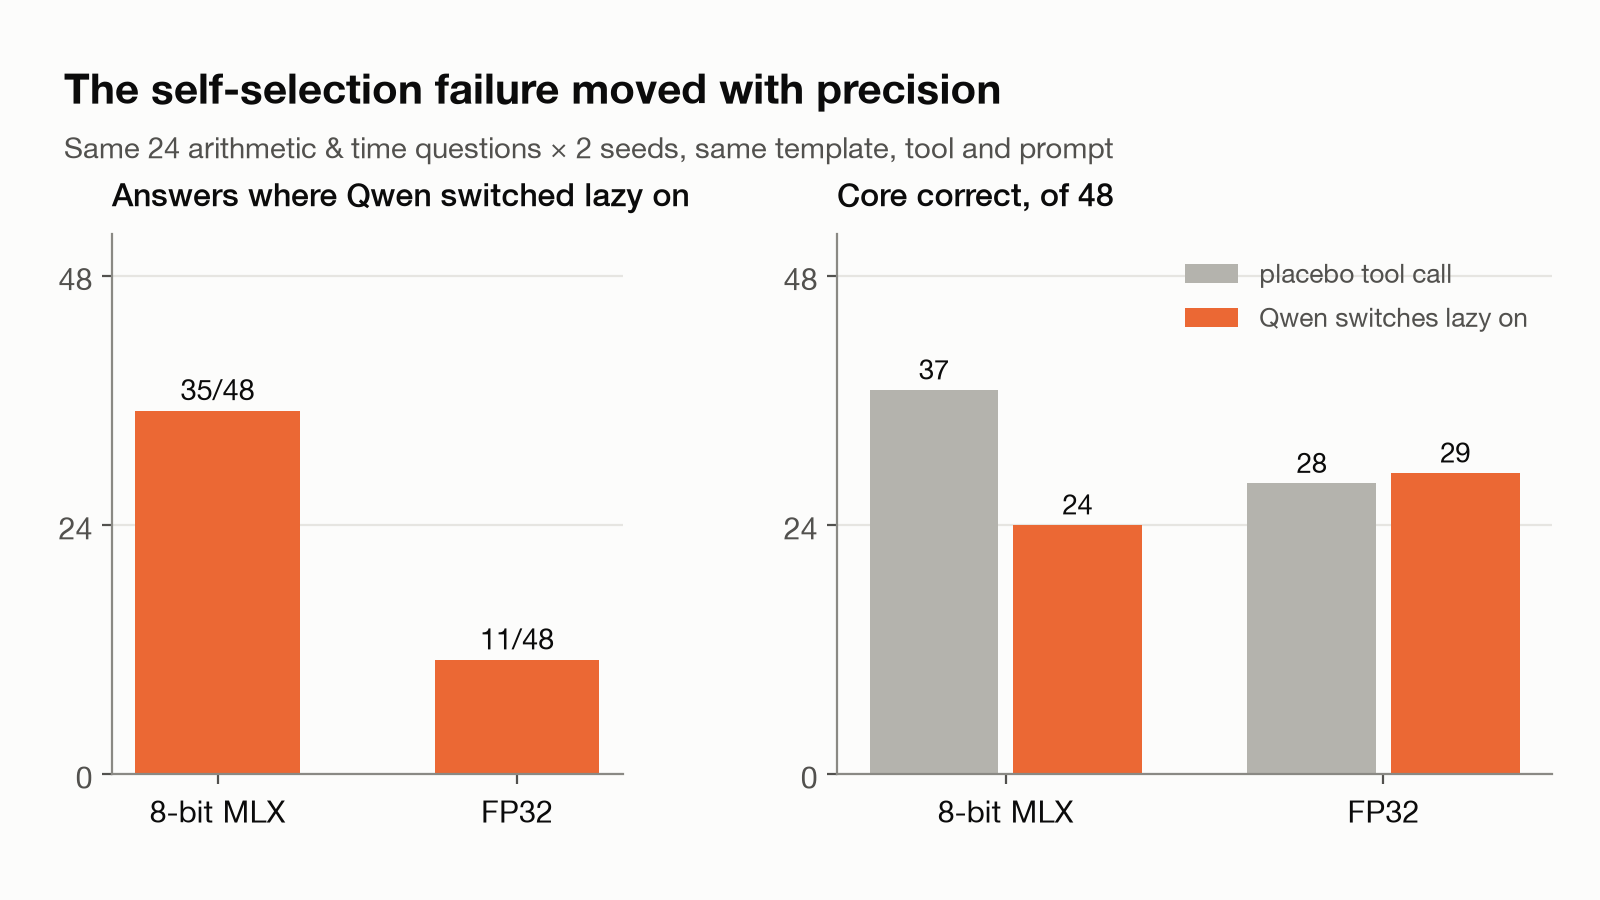
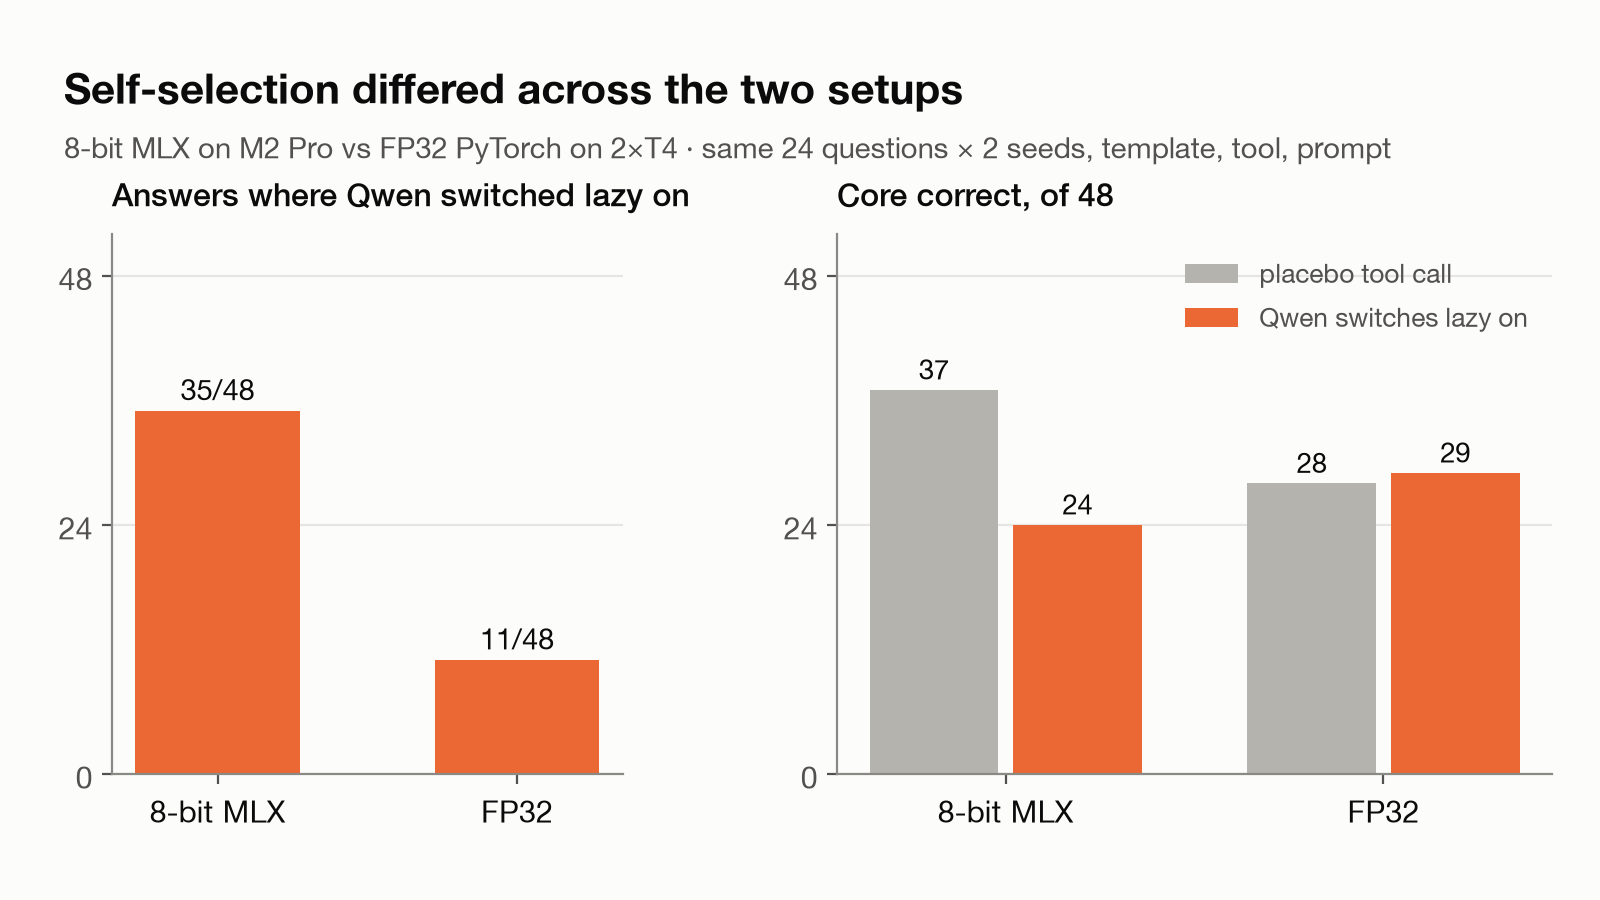
Thread v2: corrected posts 2, 4, 8, 11 and figure wording

Changed region(s): [[0.0312, 0.0622, 0.625, 0.1244], [0.0312, 0.1556, 0.875, 0.1867]]

diff --git a/paper/x_figures.py b/paper/x_figures.py
@@ -145,8 +145,8 @@ def fig_precision():
     e4 = [json.loads(l) for l in rows]
     e4 = [r for r in e4 if r.get('category') == 'arithmetic_time' and r['condition'] == 'self']
     q8_calls = sum(any((t.get('call') or {}).get('name') == 'set_mode' and str(((t.get('call') or {}).get('arguments') or {}).get('name', '')).lower() == 'lazy' for t in r.get('tool_calls', [])) for r in e4)
-    fig, gs = frame('The self-selection failure moved with precision',
-                    'Same 24 arithmetic & time questions × 2 seeds, same template, tool and prompt',
+    fig, gs = frame('Self-selection differed across the two setups',
+                    '8-bit MLX on M2 Pro vs FP32 PyTorch on 2×T4 · same 24 questions × 2 seeds, template, tool, prompt',
                     ncols=2, widths=[1, 1.4], wspace=0.35)
     a1, a2 = fig.add_subplot(gs[0]), fig.add_subplot(gs[1])
     a1.bar([0, 1], [q8_calls, fp_calls], width=0.55, color=ORANGE)
@@ -222,11 +222,11 @@ def fig_eli5_read():
     a2.axhline(0, color=INK2, lw=0.9)
     a2.plot(L, [100 * v for v in f], '-o', color=BLUE, lw=2, ms=6, mec=SURFACE, mew=1.5)
     a2.text(31, 19 + 6, '19%', ha='center', fontsize=9.5, color=INK)
-    a2.text(5, -26, 'MLPs work against it', fontsize=9, color=RED)
+    a2.text(5, -26, 'direct writes oppose it', fontsize=9, color=RED)
     a2.set_ylim(-30, 100); a2.set_yticks([0, 50, 100], ['0', '50', '100%'])
     a2.set_xticks([0, 8, 16, 24, 31]); a2.set_xlabel('layer')
     a2.set_title('Share written directly by MLPs (layers ≤ ℓ)'); grid(a2)
-    a2.text(16, 70, 'the rest is attention', fontsize=9.5, color=INK2, ha='center')
+    a2.text(16, 70, 'the rest: attention and indirect paths\n(not causally tested)', fontsize=9.5, color=INK2, ha='center')
     save(fig, '5_eli5_read.png')
 
 
